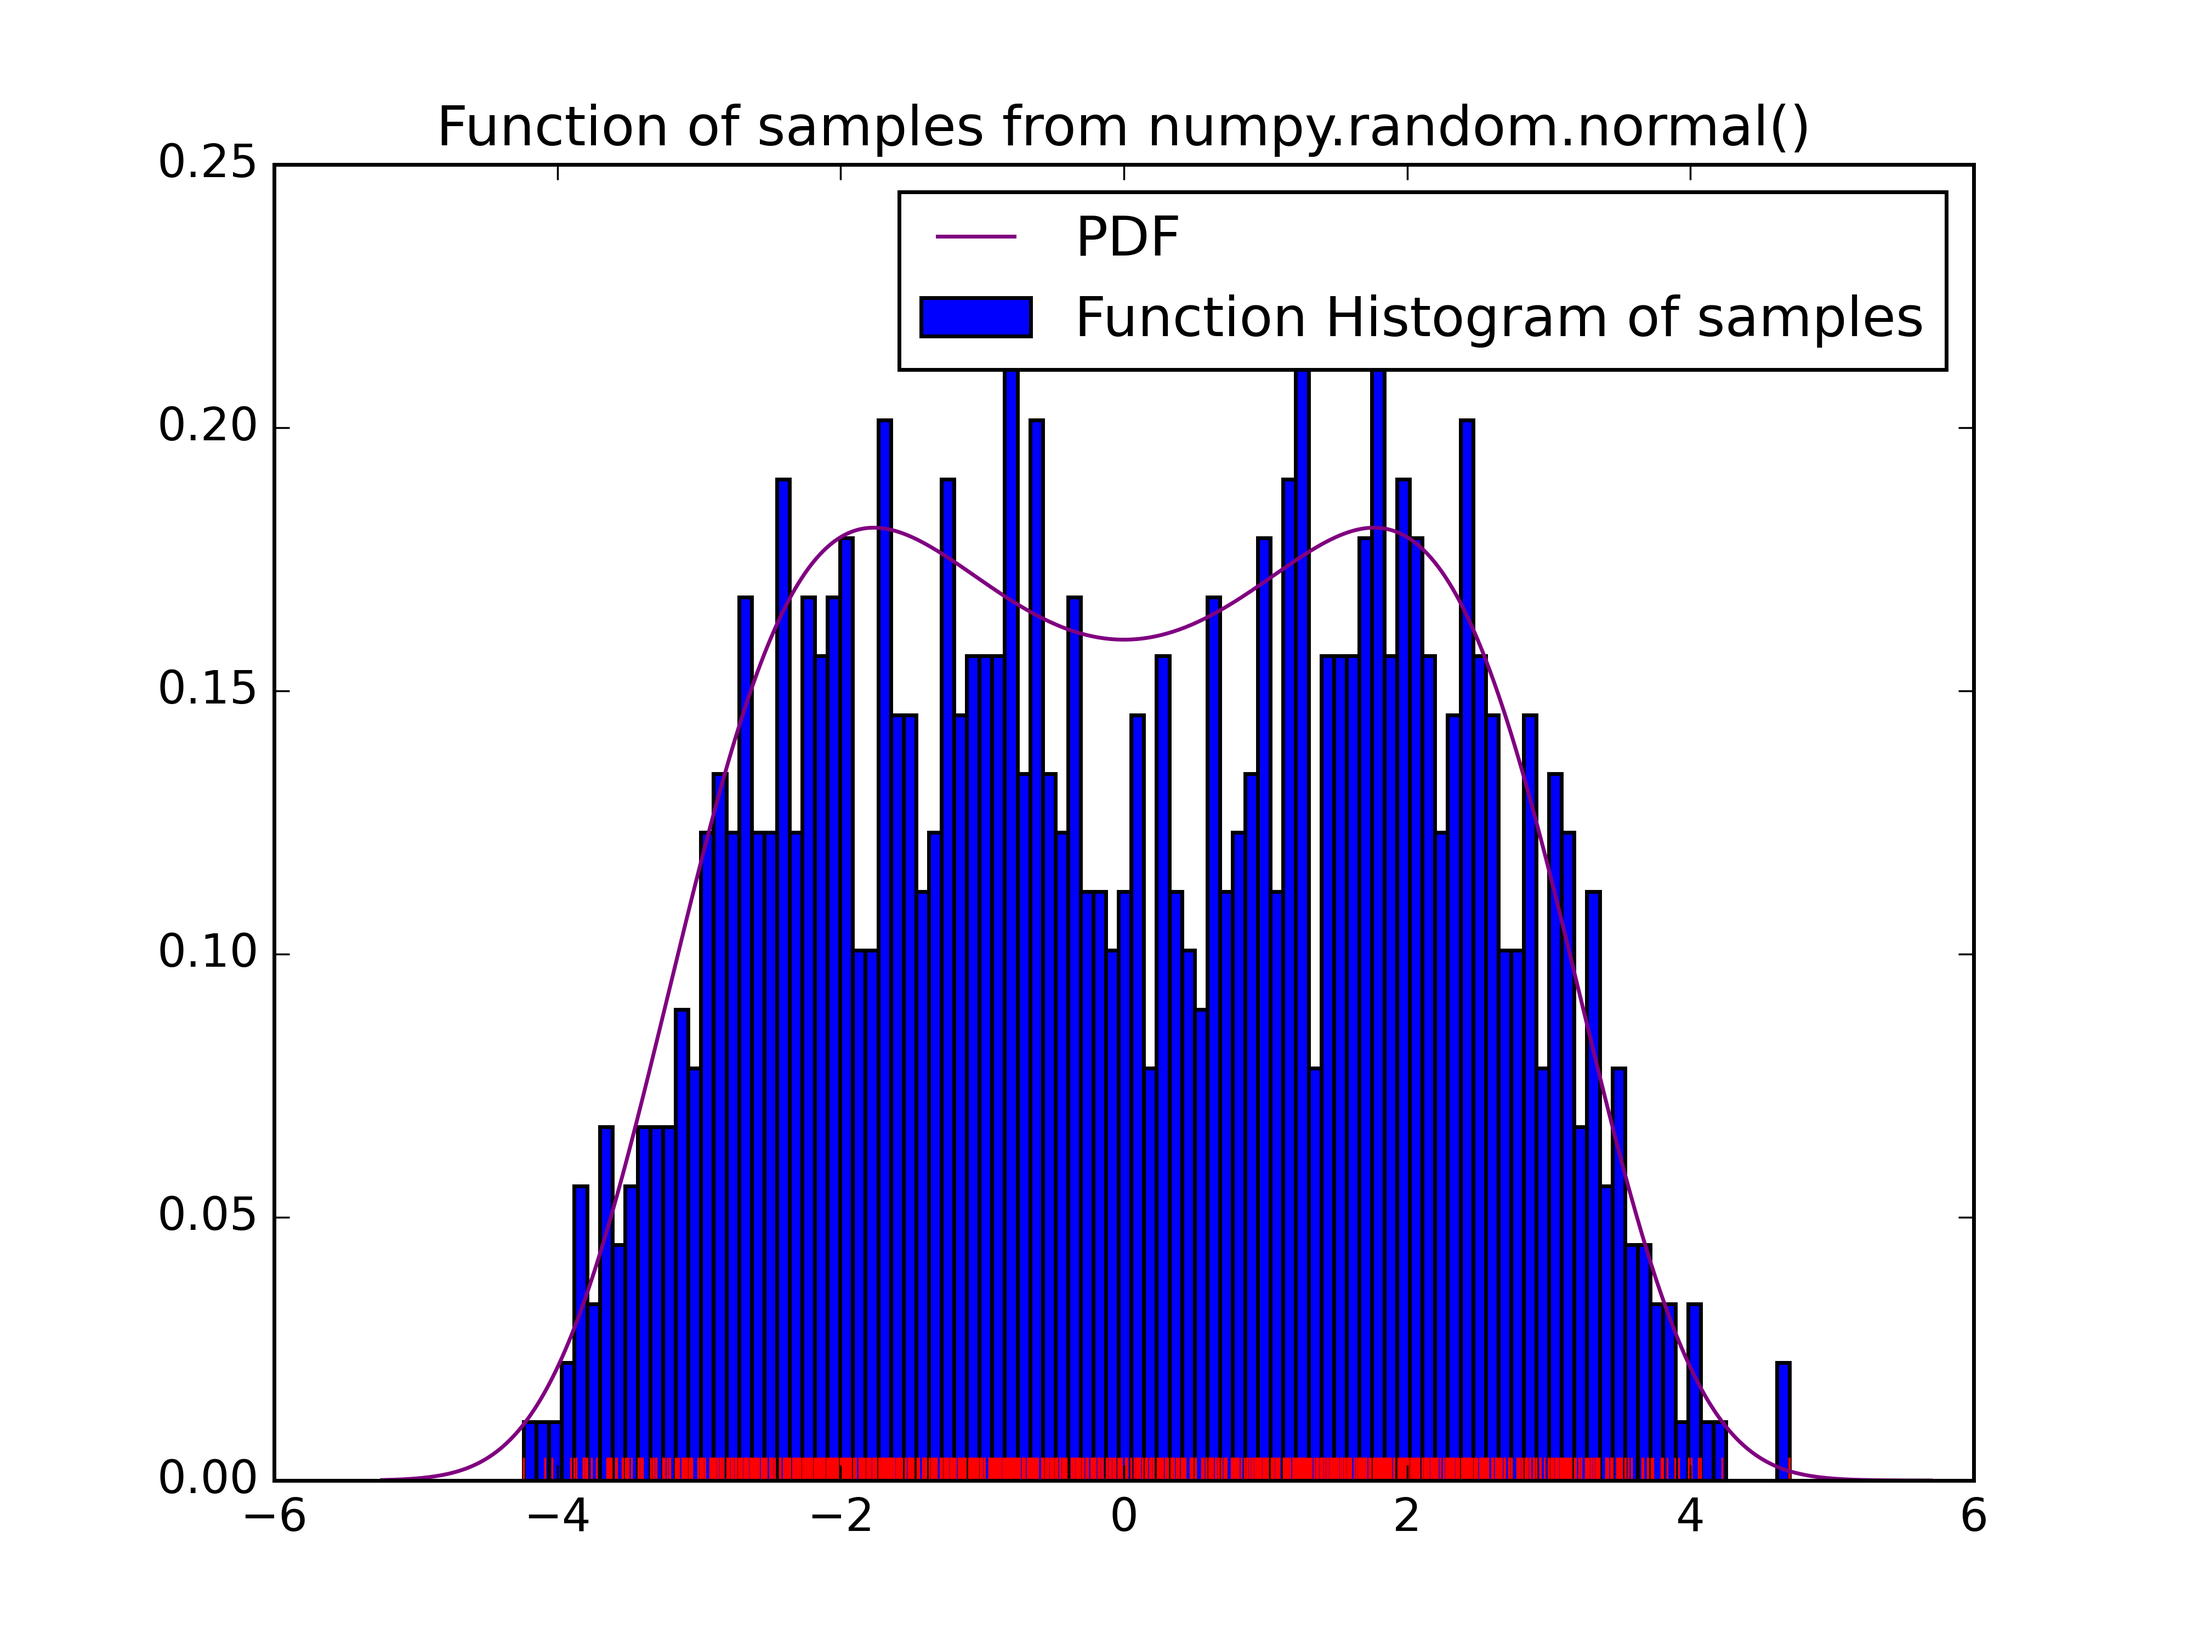
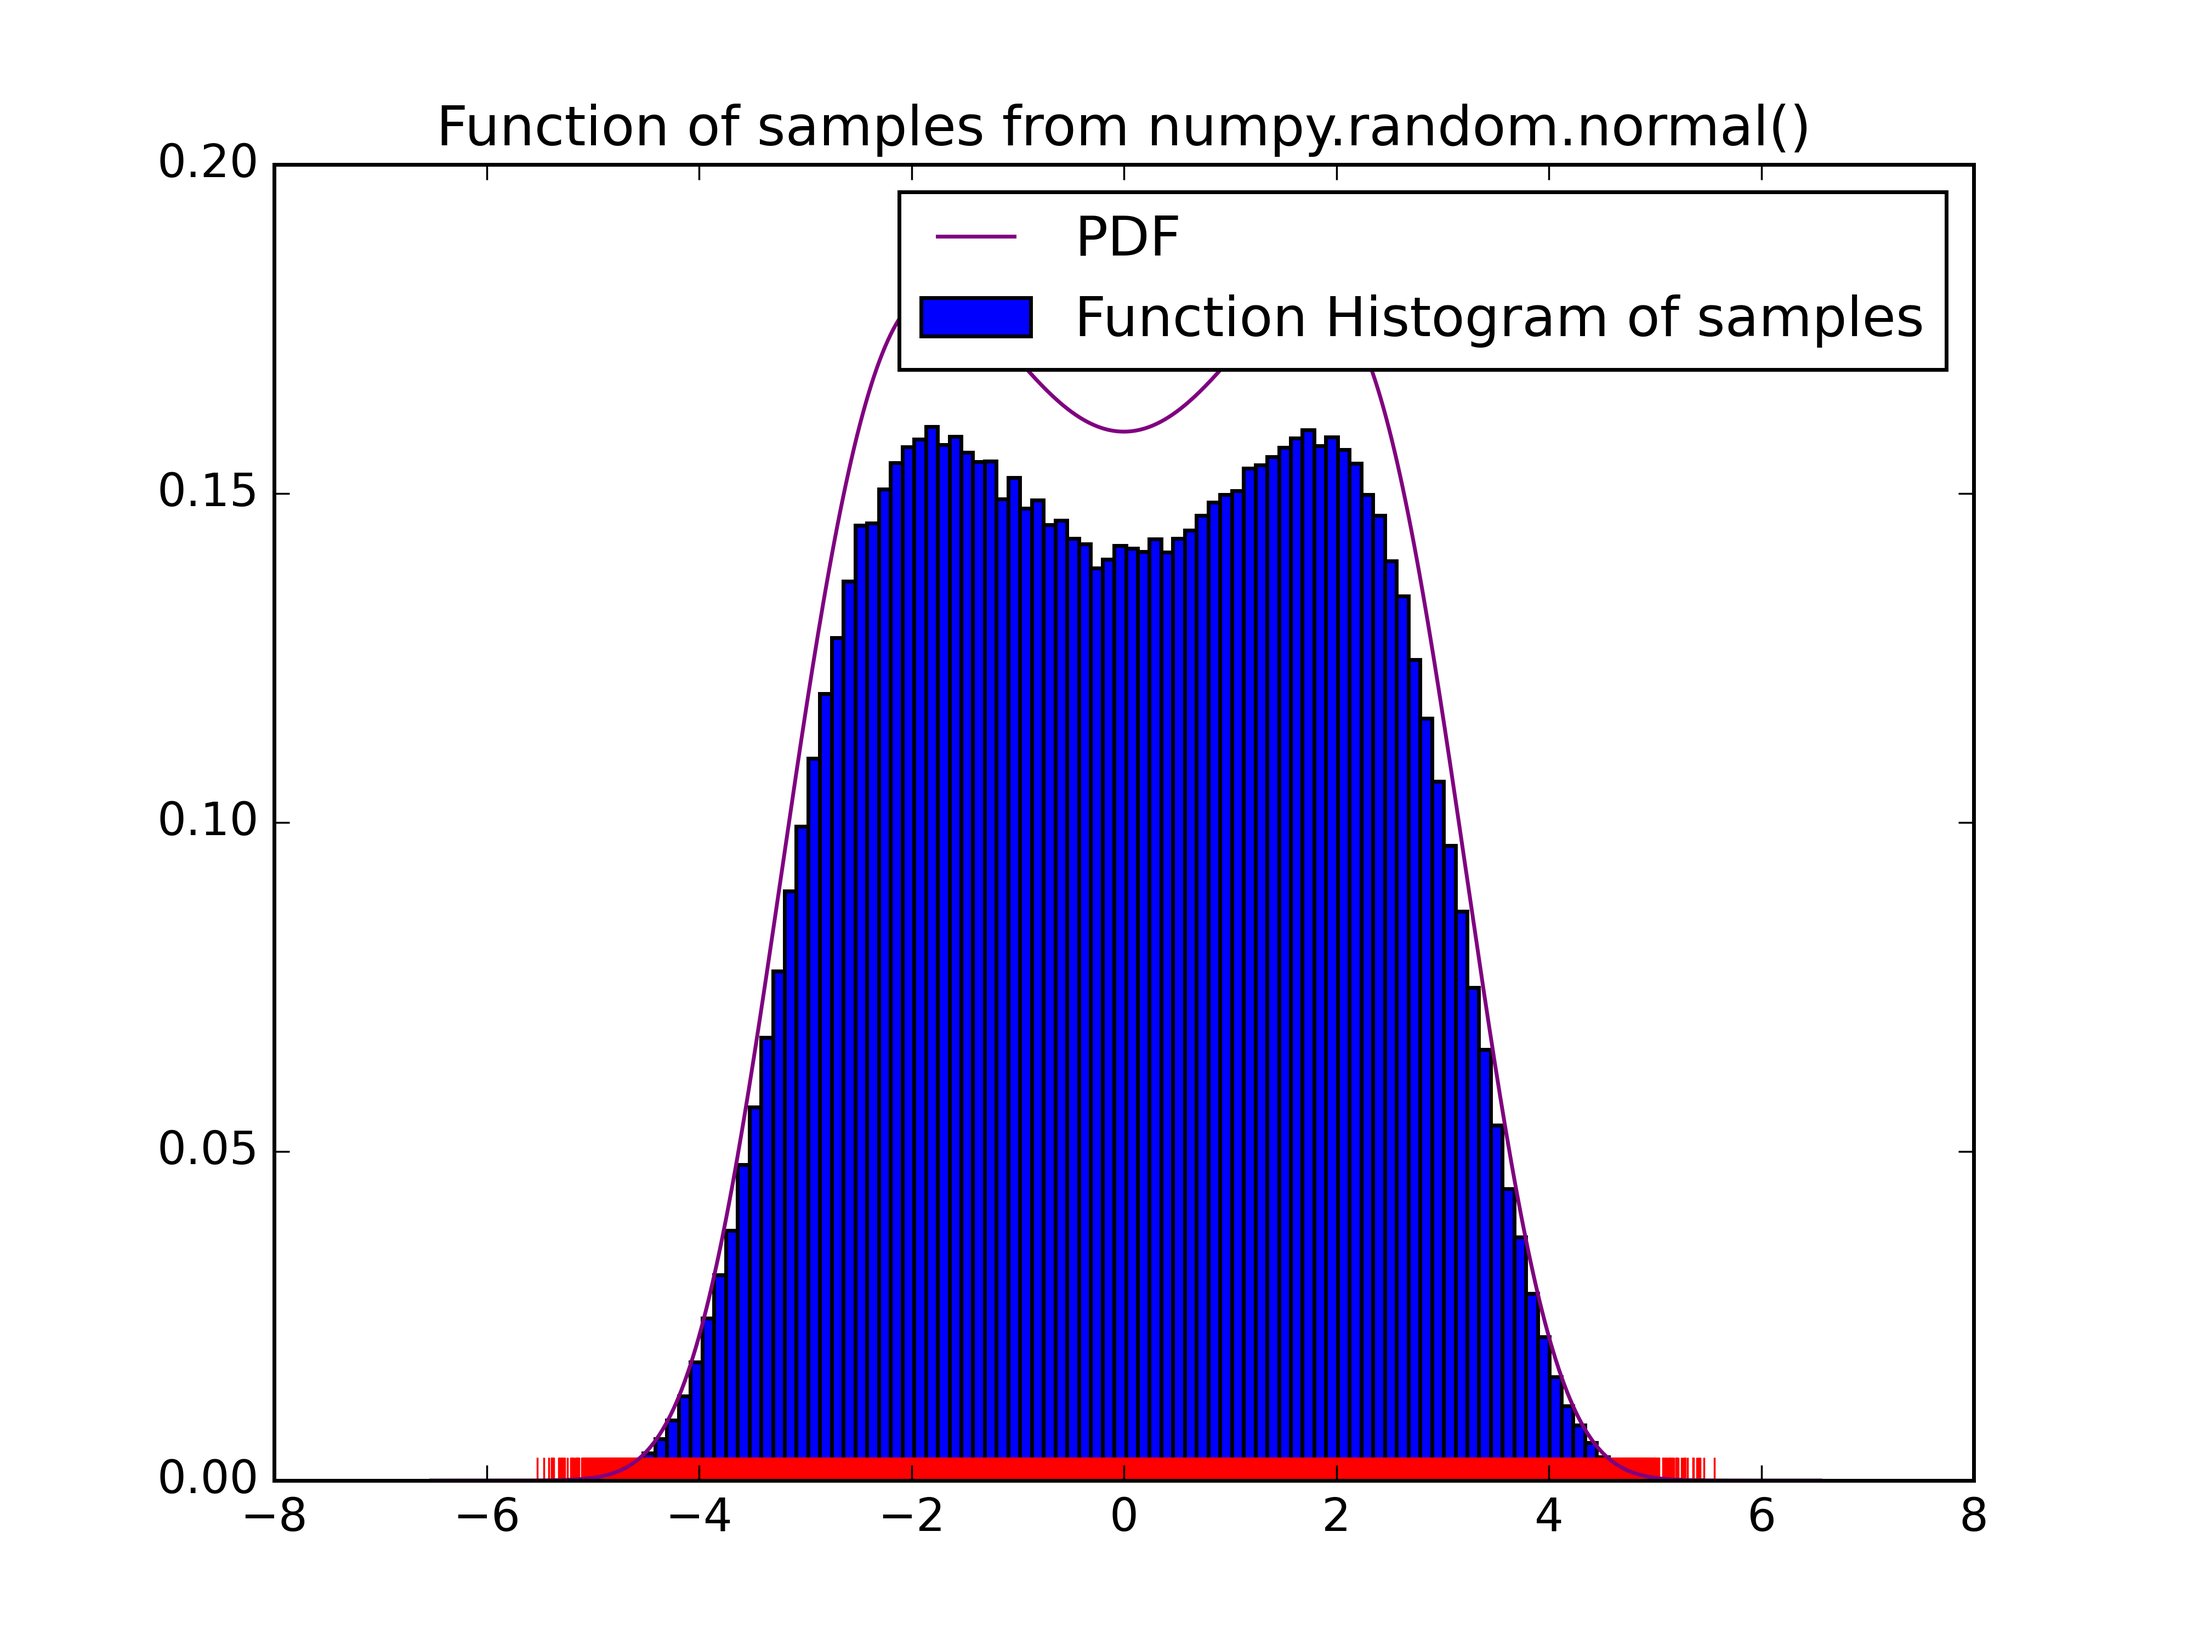
more samples, more experiement

diff --git a/pdf_compare.py b/pdf_compare.py
@@ -50,22 +50,22 @@ class Probability_Distribution_Function_AND_New_Function(object):
         elif addition_data == "new_algo":
             self.sample = np.linspace(-15, 15, self.length)
             functin_sample = self.new_created_function(self.sample)
-            self.data = np.random.choice(self.sample, size=1000, p=functin_sample/np.sum(functin_sample))
+            self.data = np.random.choice(self.sample, size=self.length, p=functin_sample/np.sum(functin_sample))
         elif addition_data == "true2d":
             self.sample = np.linspace(-15, 15, self.length)
             functin_sample = self.new_created_function(self.sample)
-            self.data = np.random.choice(self.sample, size=1000, p=functin_sample/np.sum(functin_sample))
+            self.data = np.random.choice(self.sample, size=self.length, p=functin_sample/np.sum(functin_sample))
             self.sample = np.linspace(-15, 15 , self.length)
             functin_sample = self.new_created_function(self.sample)
-            self.data2 = np.random.choice(self.sample, size=1000, p=functin_sample/np.sum(functin_sample))
+            self.data2 = np.random.choice(self.sample, size=self.length, p=functin_sample/np.sum(functin_sample))
         elif addition_data == "new_two":
             self.sample = np.linspace(10, 40, int((30) / 0.02))
             functin_sample = self.new_created_function(self.sample)
-            self.data = np.random.choice(self.sample, size=1000, p=functin_sample/np.sum(functin_sample))
+            self.data = np.random.choice(self.sample, size=self.length, p=functin_sample/np.sum(functin_sample))
             
             self.sample = np.linspace(-40, -10, int((30) / 0.02))
             functin_sample = self.new_created_function(self.sample)
-            self.data2 = np.random.choice(self.sample, size=1000, p=functin_sample/np.sum(functin_sample))
+            self.data2 = np.random.choice(self.sample, size=self.length, p=functin_sample/np.sum(functin_sample))
         
 
     
@@ -265,23 +265,18 @@ class Probability_Distribution_Function_AND_New_Function(object):
             ax.set_ylim(0, 100)
 
 
-
-        def activate_functions(self):
-            
-            # Print all the nessasary functions
-            self.plot_graphs(pdf_type="regular")
-            self.binolial_graph(pdf_type="regular")
-            self.representation_in2d(pdf_type="regular")
-            self.mgc_plot("Linear", only_mgc=True)
-            self.plot_graphs(pdf_type="not regular")
-            self.representation_in2d(pdf_type="not regular")
-
-
-
+    def activate_functions(self):    
+        # Print all the nessasary functions
+        self.plot_graphs(pdf_type="regular")
+        self.binolial_graph(pdf_type="regular")
+        self.representation_in2d(pdf_type="regular")
+        self.mgc_plot("Linear", only_mgc=True)
+        self.plot_graphs(pdf_type="not regular")
+        self.representation_in2d(pdf_type="not regular")
 
 
 
 if __name__ == "__main__":
 
-    pdf_class = Probability_Distribution_Function_AND_New_Function(0,2.5,1000000)
+    pdf_class = Probability_Distribution_Function_AND_New_Function(0, 2.5, 1000000)
     pdf_class.activate_functions()
